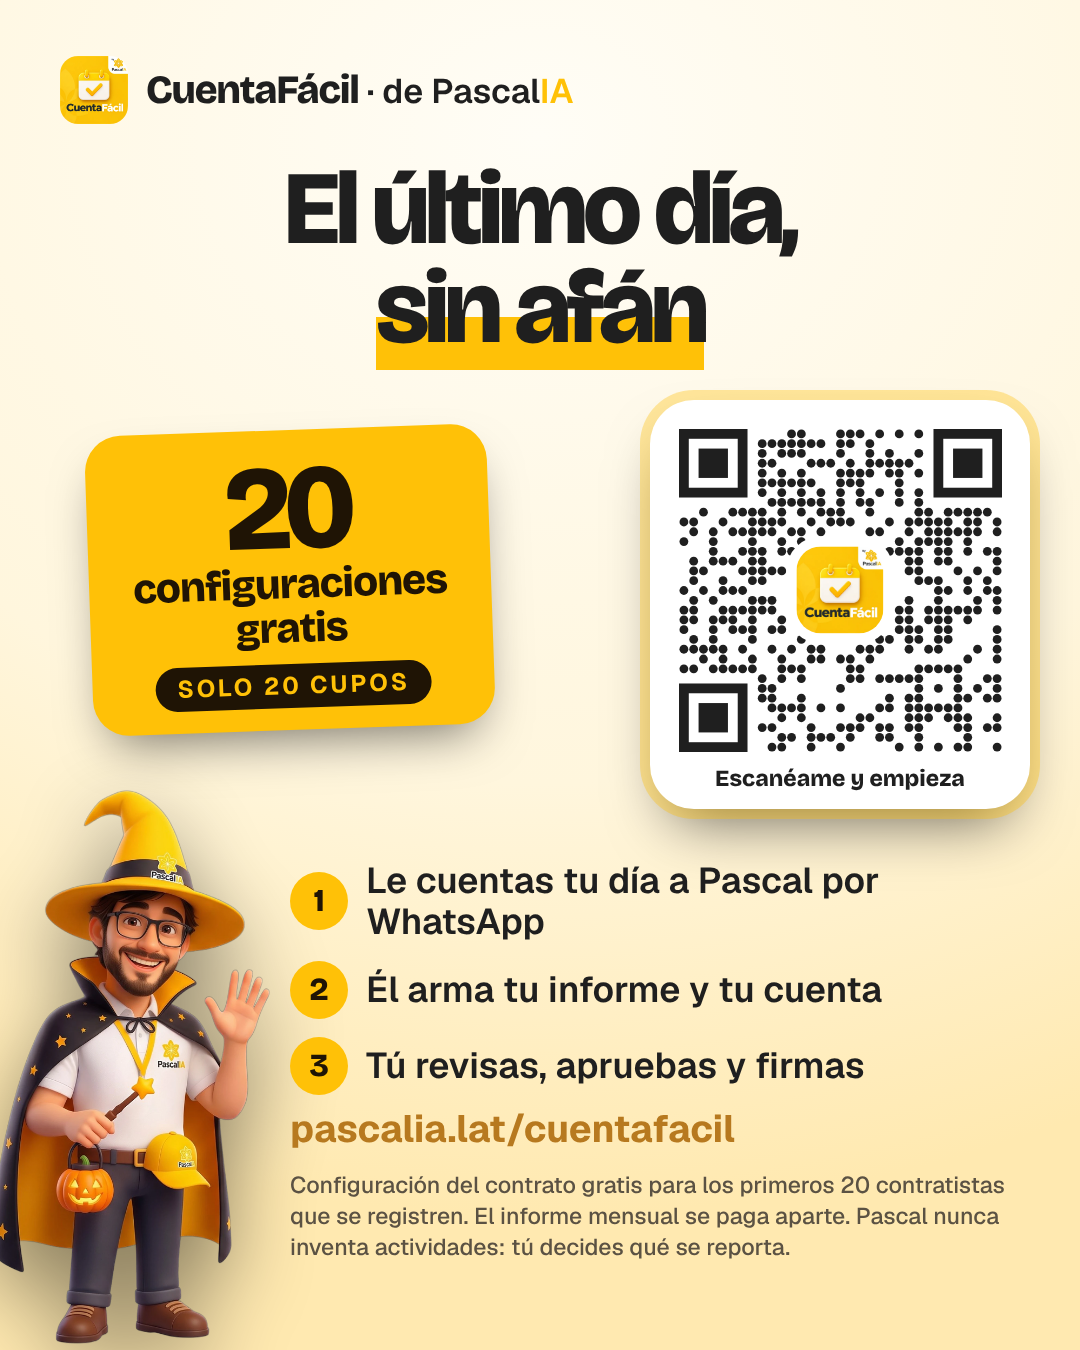
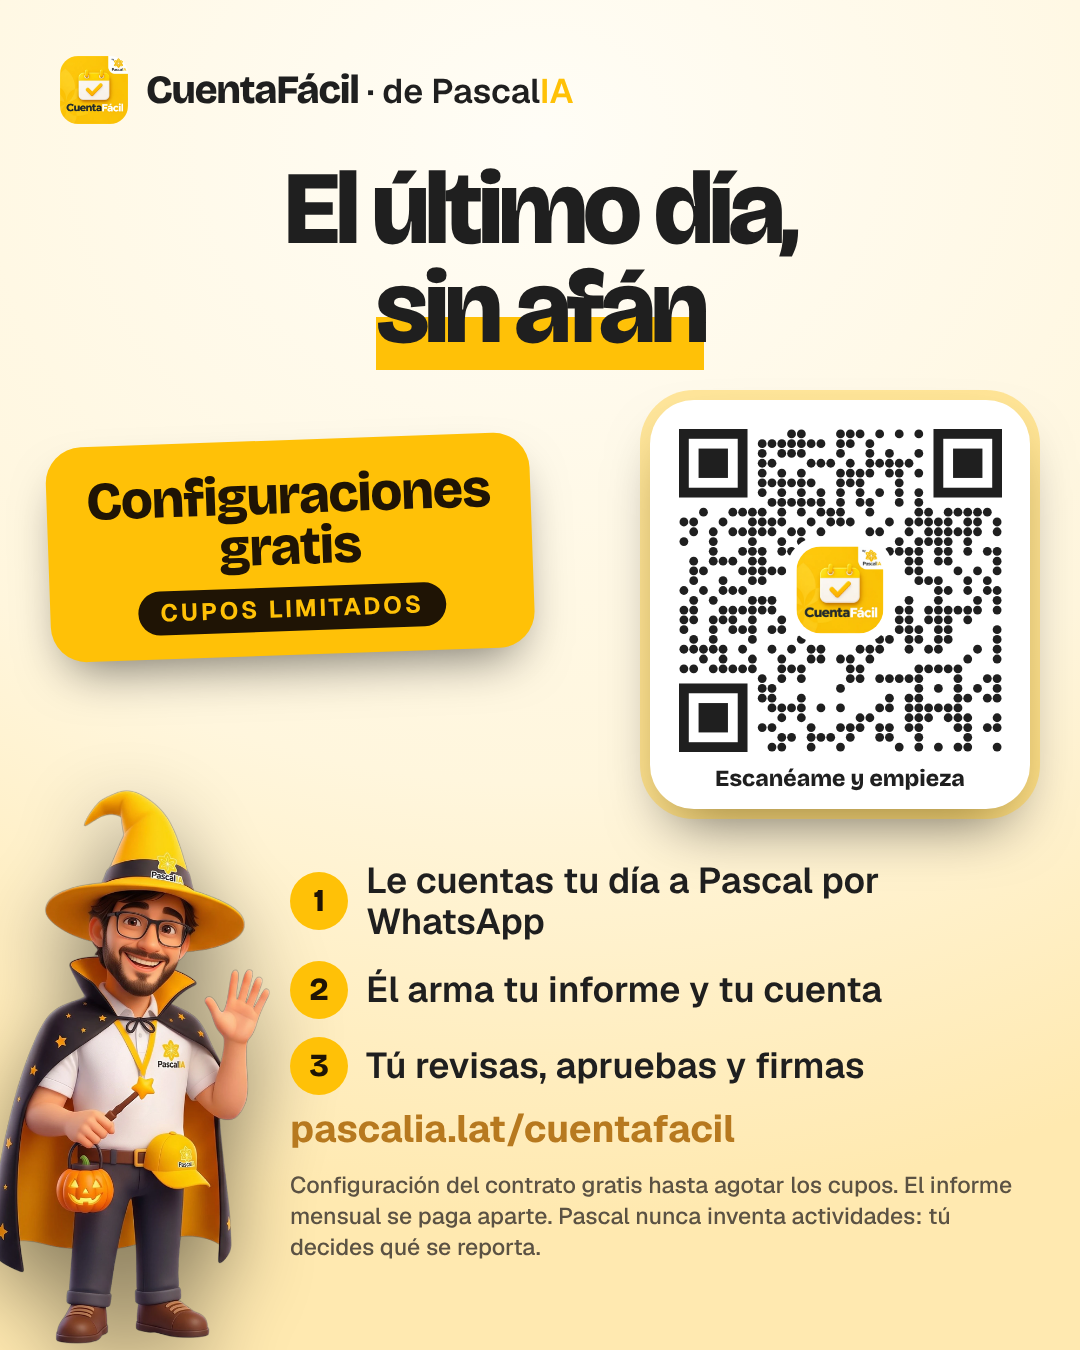
campaña: tarjetas con 'Configuraciones gratis · cupos limitados'
Claude-Session: https://claude.ai/code/session_01A6QEeP1s7u4gqEkARL7yKf

Changed region(s): [[0.0306, 0.3111, 0.5194, 0.5911], [0.275, 0.8711, 0.9472, 0.9333]]

diff --git a/campana/tarjeta/tarjeta.html b/campana/tarjeta/tarjeta.html
@@ -2,7 +2,7 @@
 <html lang="es-CO">
 <head>
 <meta charset="UTF-8">
-<title>Tarjeta · 20 configuraciones gratis</title>
+<title>Tarjeta · Configuraciones gratis</title>
 <style>
 @font-face{font-family:"Creepster";src:url("assets/Creepster-latin.woff2") format("woff2")}
 @font-face{font-family:"Bricolage Grotesque";font-weight:500 800;src:url("assets/BricolageGrotesque-latin.woff2") format("woff2");unicode-range:U+0000-00FF,U+2000-206F}
@@ -74,13 +74,13 @@ const steps = `<div class="abs steps" style="__POS__">
 const qr = (x,y,w) => `<div class="abs qr" style="left:${x}px;top:${y}px;width:${w}px;padding:${w*.075}px ${w*.075}px ${w*.05}px">
   <div class="qrc" style="width:${w*.85}px;height:${w*.85}px"><img src="assets/qr.svg" alt=""><img class="qrlogo" src="assets/logo.webp" alt=""></div>
   <p style="margin-top:${w*.04}px;font-size:${Math.round(w*.06)}px">Escanéame y empieza</p></div>`;
-const fine = 'Configuración del contrato gratis para los primeros 20 contratistas que se registren. El informe mensual se paga aparte. Pascal nunca inventa actividades: tú decides qué se reporta.';
+const fine = 'Configuración del contrato gratis hasta agotar los cupos. El informe mensual se paga aparte. Pascal nunca inventa actividades: tú decides qué se reporta.';
 let html = `<div class="abs brand"><img src="assets/logo.webp" alt=""><span><b>CuentaFácil</b> · de Pascal<i>IA</i></span></div>`;
 if (hw) html += web('right:0;top:0;transform:scaleX(-1)') + spider(880, 120);
 if (fmt === 'story') {
   html += `<h1 class="abs" style="top:190px;font-size:${hw?150:128}px">${title}</h1>
   <p class="abs sub" style="top:${hw?500:480}px">Tu cuenta de cobro, por WhatsApp con Pascal</p>
-  <div class="abs badge" style="top:610px;padding:34px 70px 30px"><b>20</b><span>configuraciones<br>gratis</span><small>Solo 20 cupos</small></div>
+  <div class="abs badge" style="top:610px;padding:38px 64px 32px"><span style="font-size:76px;line-height:.95">Configuraciones<br>gratis</span><small>Cupos limitados</small></div>
   <img class="abs pascal" src="assets/pascal.webp" style="left:-30px;top:1060px;width:470px" alt="">
   ${qr(440,1040,560)}
   ${steps.replace('__POS__','left:440px;right:50px;top:1720px;display:none')}
@@ -88,7 +88,7 @@ if (fmt === 'story') {
   <p class="abs fine" style="left:450px;right:70px;top:1748px;font-size:24px">${fine}</p>`;
 } else {
   html += `<h1 class="abs" style="top:160px;font-size:${hw?118:104}px">${title}</h1>
-  <div class="abs badge" style="top:430px;left:290px;padding:24px 44px 22px"><b style="font-size:120px">20</b><span style="font-size:42px">configuraciones<br>gratis</span><small style="font-size:24px">Solo 20 cupos</small></div>
+  <div class="abs badge" style="top:440px;left:290px;padding:30px 40px 24px"><span style="font-size:54px;line-height:.95">Configuraciones<br>gratis</span><small style="font-size:24px">Cupos limitados</small></div>
   <img class="abs pascal" src="assets/pascal.webp" style="left:-10px;top:790px;width:280px" alt="">
   ${qr(650,400,380)}
   ${steps.replace('__POS__','left:290px;right:40px;top:860px')}
